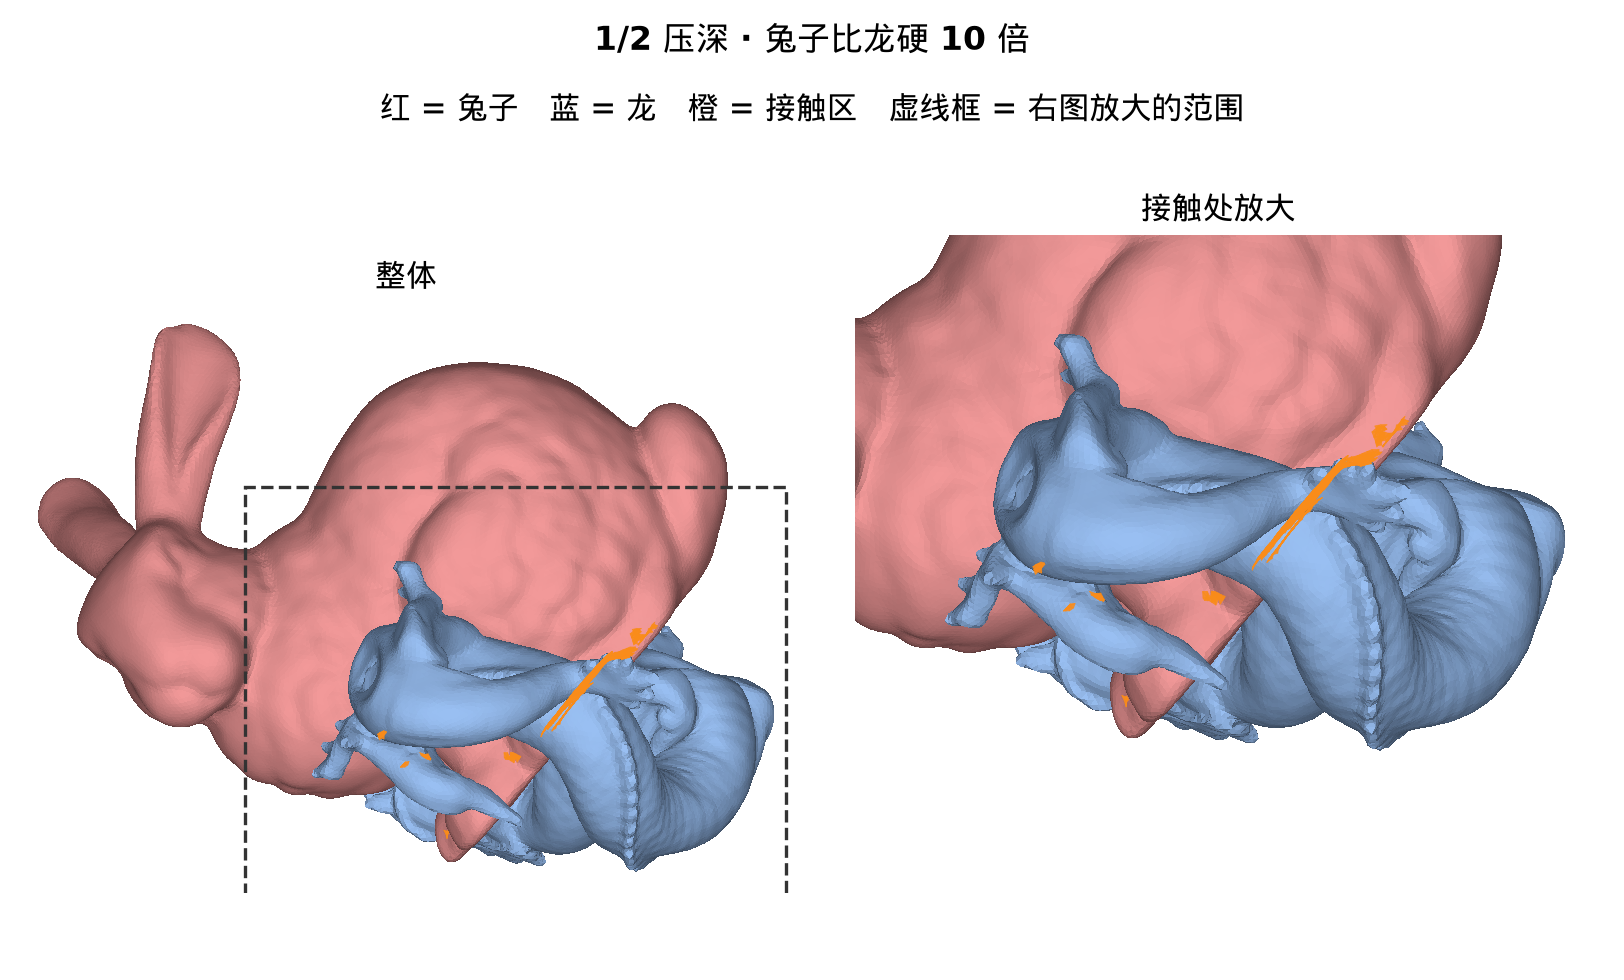
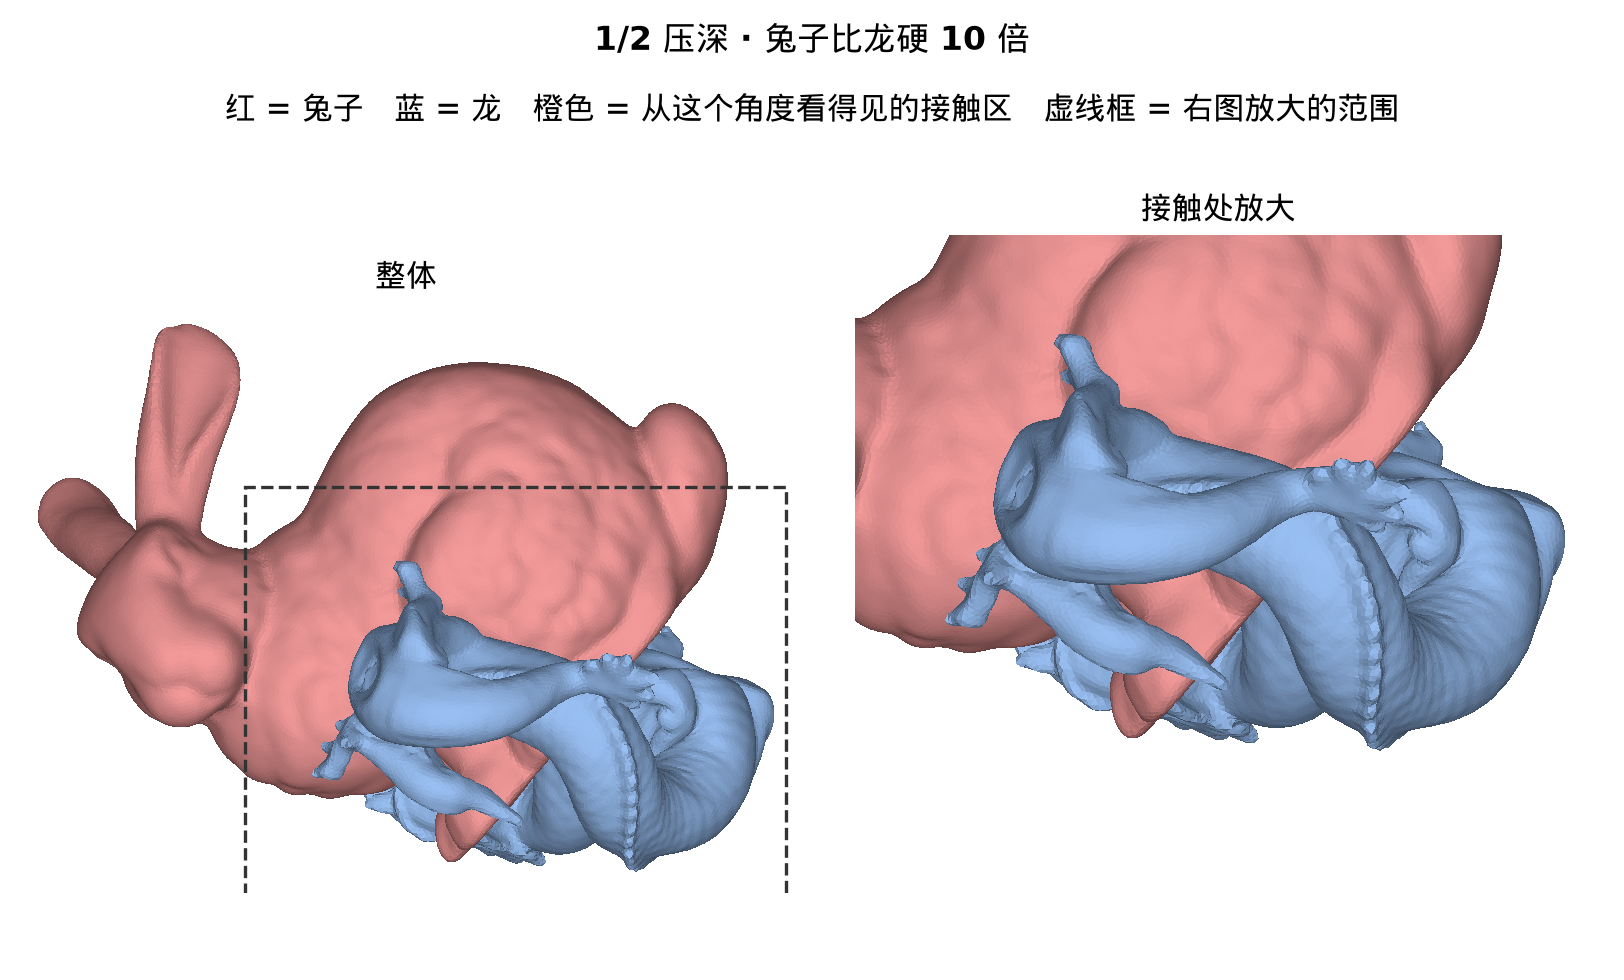
Publish week5/week7/index from meeting-draft 08bcfba (html + referenced assets only; check PASS check_08bcfba, number check number_check.md)

diff --git a/week7.html b/week7.html
@@ -242,7 +242,7 @@ html.annot-on #annot-capture { display: block; }
   html.annot-fixed pre, html.annot-fixed mjx-container[display="true"] { overflow: visible; }
 }
 </style>
-<script>window.NIPC_PAGE = "a83dea8cf228";</script>
+<script>window.NIPC_PAGE = "392dbdd7af03";</script>
 <script>window.MathJax = {tex: {inlineMath: [["\\(", "\\)"]], displayMath: [["\\[", "\\]"]]}, svg: {fontCache: "global"}};</script>
 <script src="https://cdn.jsdelivr.net/npm/mathjax@3.2.2/es5/tex-svg.js" async></script>
 <a class="skip" href="#content">跳转到正文</a><div id="progress" aria-hidden="true"></div>
@@ -361,30 +361,38 @@ html.annot-on #annot-capture { display: block; }
 <p><strong>偏大来自第一项：只用第一项，1/3 压深四个算例就已经是标准答案的 23.1–183 倍，加上第二项只把读数改了 9%–28%（四个算例各自的完整骨架除以只用第一项，有升有降）。</strong> 第一项把每一处接触都当成表面平、只有一个压入方向；压到兔高的 1/3 时，接触面绕成和物体一样大的弯曲面，这个近似不再成立。第二项是对柔度的修正，补不回这么大的差。所以大压深这一段，骨架两项 覆盖不了，需要换一种第一项，或者交给神经网络。这里的倍数同样只说明偏大，不是偏大的准确幅度（见 1.1 节的按区域拆分）。</p>
 <h3 id="w1-3" class="numbered">1.3 逐个算例：变形图和这一行的数字</h3>
 
-<p>下面 8 个单元和上表 8 行一一对应，单元名和表里的「算例」一字不差。每张图左边是两个物体静止后的整体，右边是接触处放大，虚线框标出放大的范围；红色是兔子，蓝色是龙，橙色是接触区。能量都用同一套单位，括号里是除以 GT 的倍数。</p>
+<p>下面 8 个单元和上表 8 行一一对应，单元名和表里的「算例」一字不差。每个单元两张图。第一张左边是两个物体静止后的整体，右边是接触处放大，虚线框标出放大的范围；红色是兔子，蓝色是龙，橙色是从这个角度看得见的接触区。接触区大多夹在两个物体中间，从外面看不见，有几个算例从这个角度一点橙色都没有，所以第二张是穿过接触区的一个剖面（垂直于视线方向，在接触区沿视线方向的范围内取切到接触最多的那个平面），橙线标出被剖面切到的接触区。能量都用同一套单位，括号里是除以 GT 的倍数。</p>
 <h4>1/3 压深 · 龙比兔子硬 10 倍</h4>
 <figure style="margin:12px 0"><img src="assets/images/w7_deep_Bx10_d3_web2.png" width="1624" height="980" style="width:541px;max-width:100%;height:auto" alt="" loading="lazy"></figure>
+<figure style="margin:12px 0"><img src="assets/images/w7_deep_Bx10_d3_sec.png" width="1624" height="1720" style="width:420px;max-width:100%;height:auto" alt="" loading="lazy"></figure>
 <p><strong>GT 255,626；骨架 5,001,000（19.6 倍）。</strong> Hertz 598,200，hydroelastic 1,114,000，Winkler 7,798,000。</p>
 <h4>1/3 压深 · 兔子比龙硬 10 倍</h4>
 <figure style="margin:12px 0"><img src="assets/images/w7_deep_Ax10_d3_web2.png" width="1624" height="980" style="width:541px;max-width:100%;height:auto" alt="" loading="lazy"></figure>
+<figure style="margin:12px 0"><img src="assets/images/w7_deep_Ax10_d3_sec.png" width="1624" height="1720" style="width:420px;max-width:100%;height:auto" alt="" loading="lazy"></figure>
 <p><strong>GT 41,480；骨架 9,721,000（234 倍）。</strong> Hertz 598,200，hydroelastic 1,545,000，Winkler 7,798,000。软的是龙，变形几乎全在龙一侧，GT 小，骨架的倍数在 8 个算例里最大。</p>
 <h4>1/3 压深 · 兔子泊松比 0.2、龙 0.45</h4>
 <figure style="margin:12px 0"><img src="assets/images/w7_deep_nuA02B045_d3_web2.png" width="1624" height="980" style="width:541px;max-width:100%;height:auto" alt="" loading="lazy"></figure>
+<figure style="margin:12px 0"><img src="assets/images/w7_deep_nuA02B045_d3_sec.png" width="1624" height="1720" style="width:420px;max-width:100%;height:auto" alt="" loading="lazy"></figure>
 <p><strong>GT 46,608；骨架 2,081,000（44.6 倍）。</strong> Hertz 329,000，hydroelastic 732,900，Winkler 4,289,000。</p>
 <h4>1/3 压深 · 兔子泊松比 0.45、龙 0.2</h4>
 <figure style="margin:12px 0"><img src="assets/images/w7_deep_nuA045B02_d3_web2.png" width="1624" height="980" style="width:541px;max-width:100%;height:auto" alt="" loading="lazy"></figure>
+<figure style="margin:12px 0"><img src="assets/images/w7_deep_nuA045B02_d3_sec.png" width="1624" height="1720" style="width:420px;max-width:100%;height:auto" alt="" loading="lazy"></figure>
 <p><strong>GT 46,061；骨架 2,204,000（47.9 倍）。</strong> Hertz 329,000，hydroelastic 760,300，Winkler 4,289,000。和上一个算例只对调了泊松比，GT 只差约 1%。</p>
 <h4>1/2 压深 · 龙比兔子硬 10 倍</h4>
 <figure style="margin:12px 0"><img src="assets/images/w7_deep_Bx10_d2_web2.png" width="1624" height="980" style="width:541px;max-width:100%;height:auto" alt="" loading="lazy"></figure>
+<figure style="margin:12px 0"><img src="assets/images/w7_deep_Bx10_d2_sec.png" width="1624" height="1720" style="width:420px;max-width:100%;height:auto" alt="" loading="lazy"></figure>
 <p><strong>GT 516,195；骨架 1,421,000（2.8 倍，单一小格边长）。</strong> Hertz 1,282,000，hydroelastic 3,194,000，Winkler 21,680,000。用去掉整体平移和转动以后的最大局部位移来量变形：兔子 4.79、龙 5.07，兔子的高度是 9.23（长度都用同一套网格单位），两个物体都超过兔高的一半；龙虽然更硬，但它的细长部分整体弯开了。</p>
 <h4>1/2 压深 · 兔子比龙硬 10 倍</h4>
 <figure style="margin:12px 0"><img src="assets/images/w7_deep_Ax10_d2_web2.png" width="1624" height="980" style="width:541px;max-width:100%;height:auto" alt="" loading="lazy"></figure>
+<figure style="margin:12px 0"><img src="assets/images/w7_deep_Ax10_d2_sec.png" width="1624" height="1720" style="width:420px;max-width:100%;height:auto" alt="" loading="lazy"></figure>
 <p><strong>GT 99,482；骨架 4,307,000（43.3 倍，单一小格边长）。</strong> Hertz 1,282,000，hydroelastic 2,947,000，Winkler 21,680,000。变形几乎全在软的龙一侧：最大局部位移兔子只有 0.19，龙 5.54，超过兔高的一半。</p>
 <h4>1/2 压深 · 兔子泊松比 0.2、龙 0.45</h4>
 <figure style="margin:12px 0"><img src="assets/images/w7_deep_nuA02B045_d2_web2.png" width="1624" height="980" style="width:541px;max-width:100%;height:auto" alt="" loading="lazy"></figure>
+<figure style="margin:12px 0"><img src="assets/images/w7_deep_nuA02B045_d2_sec.png" width="1624" height="1720" style="width:420px;max-width:100%;height:auto" alt="" loading="lazy"></figure>
 <p><strong>GT 88,657；骨架 879,500（9.9 倍，单一小格边长）。</strong> Hertz 705,100，hydroelastic 1,954,000，Winkler 11,920,000。</p>
 <h4>1/2 压深 · 兔子泊松比 0.45、龙 0.2</h4>
 <figure style="margin:12px 0"><img src="assets/images/w7_deep_nuA045B02_d2_web2.png" width="1624" height="980" style="width:541px;max-width:100%;height:auto" alt="" loading="lazy"></figure>
+<figure style="margin:12px 0"><img src="assets/images/w7_deep_nuA045B02_d2_sec.png" width="1624" height="1720" style="width:420px;max-width:100%;height:auto" alt="" loading="lazy"></figure>
 <p><strong>GT 87,541；骨架 934,700（10.7 倍，单一小格边长）。</strong> Hertz 705,100，hydroelastic 1,968,000，Winkler 11,920,000。</p></section>
 <section id="w2"><h2>二、软硬对调：标准答案分得开，骨架方向反了</h2>
 <p><strong>我们要检验「第一项管等效、第二项管个体」：两个物体的等效模量相同、只是谁软谁硬对调时，骨架应该能给出不同的能量，而且方向和标准答案一致。</strong> 做法是把 1.2 节的算例两两配对：「龙比兔子硬 10 倍」对「兔子比龙硬 10 倍」，「兔子泊松比 0.2、龙 0.45」对反过来。每一对只换这一样东西，两个物体的等效模量相同。各算例的变形图见 1.3 节同名的单元。</p>
@@ -522,7 +530,8 @@ html.annot-on #annot-capture { display: block; }
 </tr>
 </tbody>
 </table></div></details>
-<details><summary>baseline：RigidFormer 能不能用</summary><p>RigidFormer 原版输入每个物体两帧点云、质量、摩擦，输出刚体下一帧的位姿，训练数据是刚体自由运动，没有能量输出，也不用 \(E\) 、 \(\nu\) 。能借的是它的物体级编码器（点云 → 每个物体一个向量 → 物体之间做注意力）：输入换成 \(E\) 、 \(\nu\) 和粗状态，输出换成接触能量。要训练它，需要大量不同形状的标准答案。</p></details></section>
+<details><summary>baseline：RigidFormer 能不能用</summary><p><strong>导师已经有一套能直接用的 RigidFormer 流程，用法是把它当整条轨迹的预测器：原样训练、比轨迹，不改它的输出。</strong> 导师先复现了 RigidFormer 官方结果，在 MOVi-Sphere 测试集上前 100 帧的位置误差和官方公布的数前四位一致。然后搭好了一个软接触试点的整条流程：一个软球（杨氏模量 \(10^5\)）掉到固定的刚性椭球上，用全有限元隐式仿真生成 120 条轨迹，转成 RigidFormer 的数据格式，原样训练 RigidFormer（输出仍然是物体的位姿），再和全有限元的轨迹比较。目前仓库里这组数据上的对比有三种方法：导师的两种和一个 hydroelastic 对照，还没有 RigidFormer 的训练结果。</p>
+<p><strong>这和我们静态、只比能量的设定不同，要放进我们的比较有两条路。</strong> 一是用导师的流程比动态轨迹；二是借它的物体级编码器（点云 → 每个物体一个向量 → 物体之间做注意力），输入换成 \(E\) 、 \(\nu\) 和粗状态，输出换成接触能量。RigidFormer 原版输入每个物体两帧点云、质量、摩擦，输出刚体下一帧的位姿，没有能量输出，也不用 \(E\) 、 \(\nu\) 。两条路都需要我们自己的软–软普通网格数据：导师的试点用的是球和刚体，不符合我们只用软体普通网格的要求。</p></details></section>
 <section id="w5"><h2>下周 TODO</h2>
 <ol>
 <li>大压深：已做的是兔高的 1/3、1/2，再补 1/8、1/6 两档，找出骨架从哪个压深开始失效，再决定这一段是改第一项（按物体真实形状算柔度、不再假设表面平），还是交给神经网络。</li>
